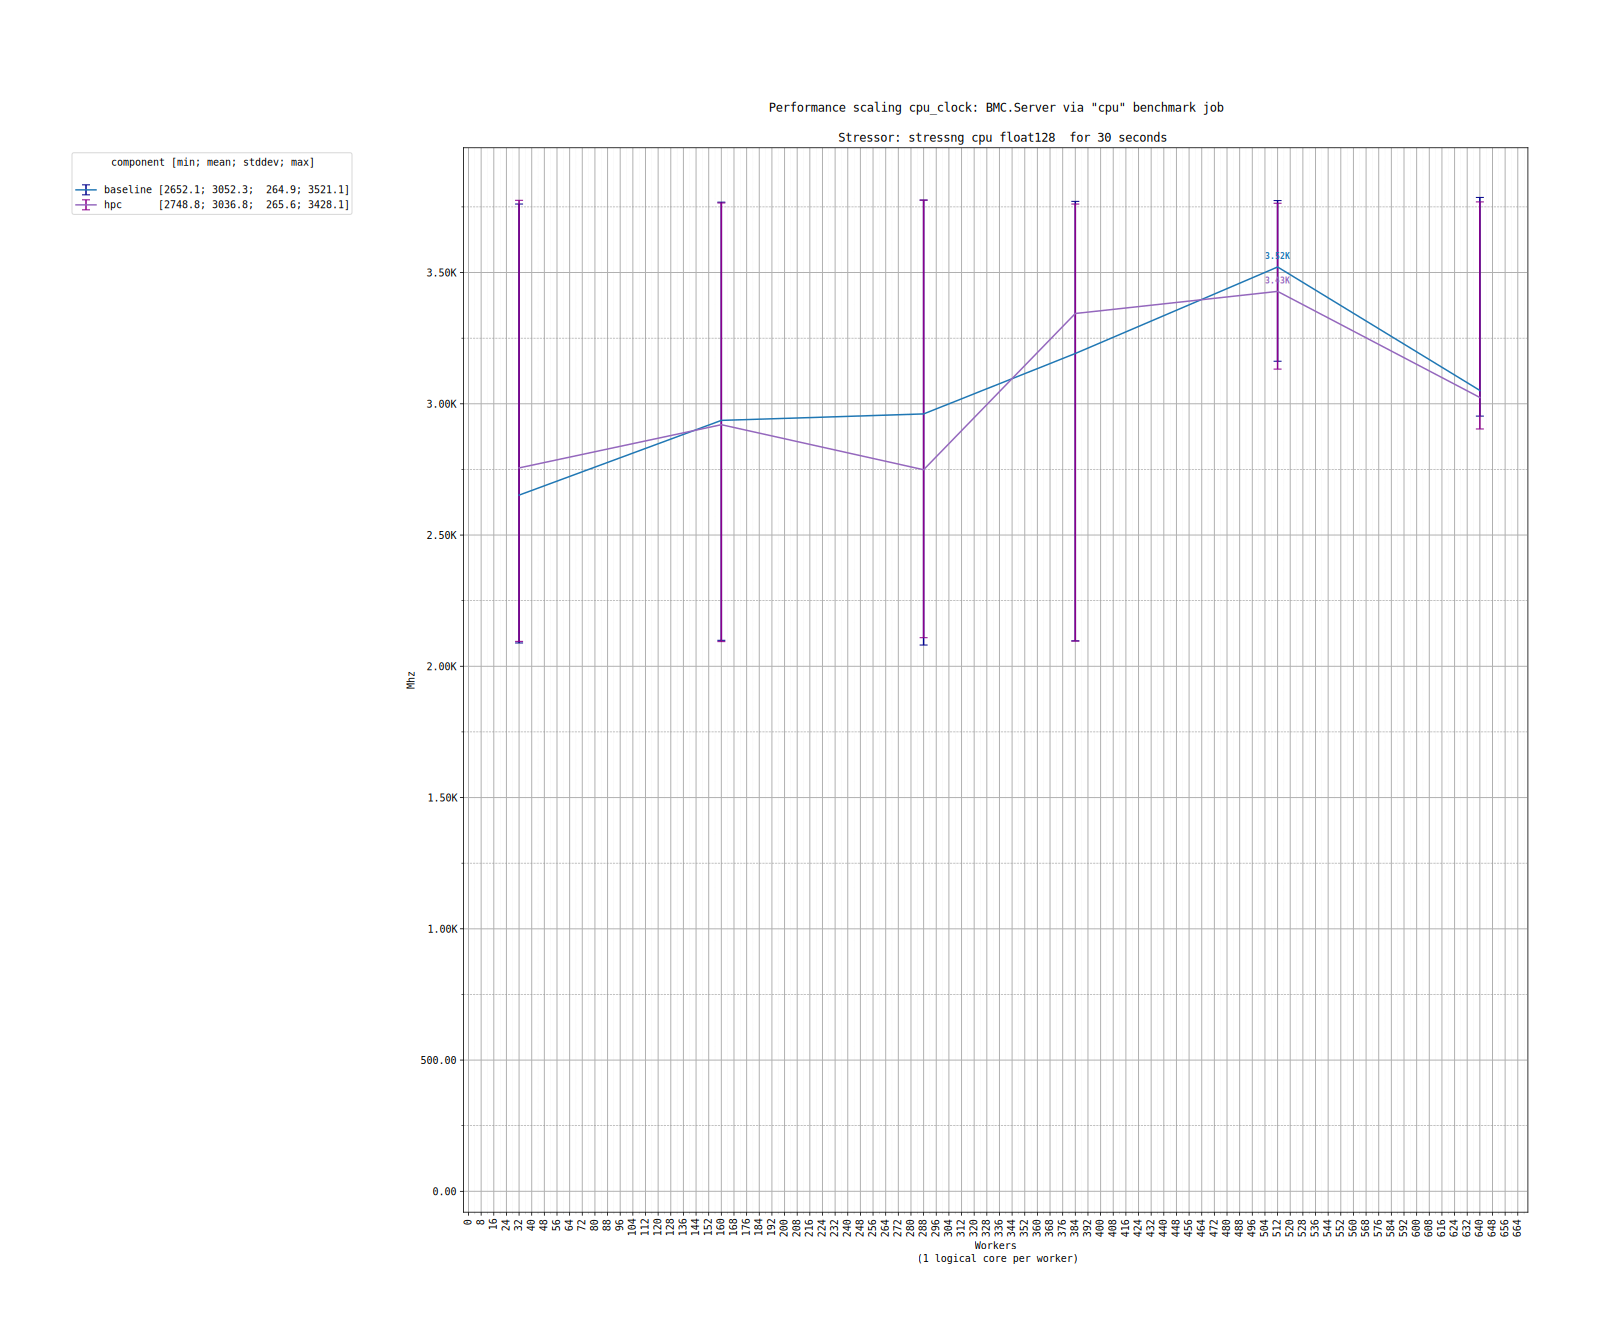
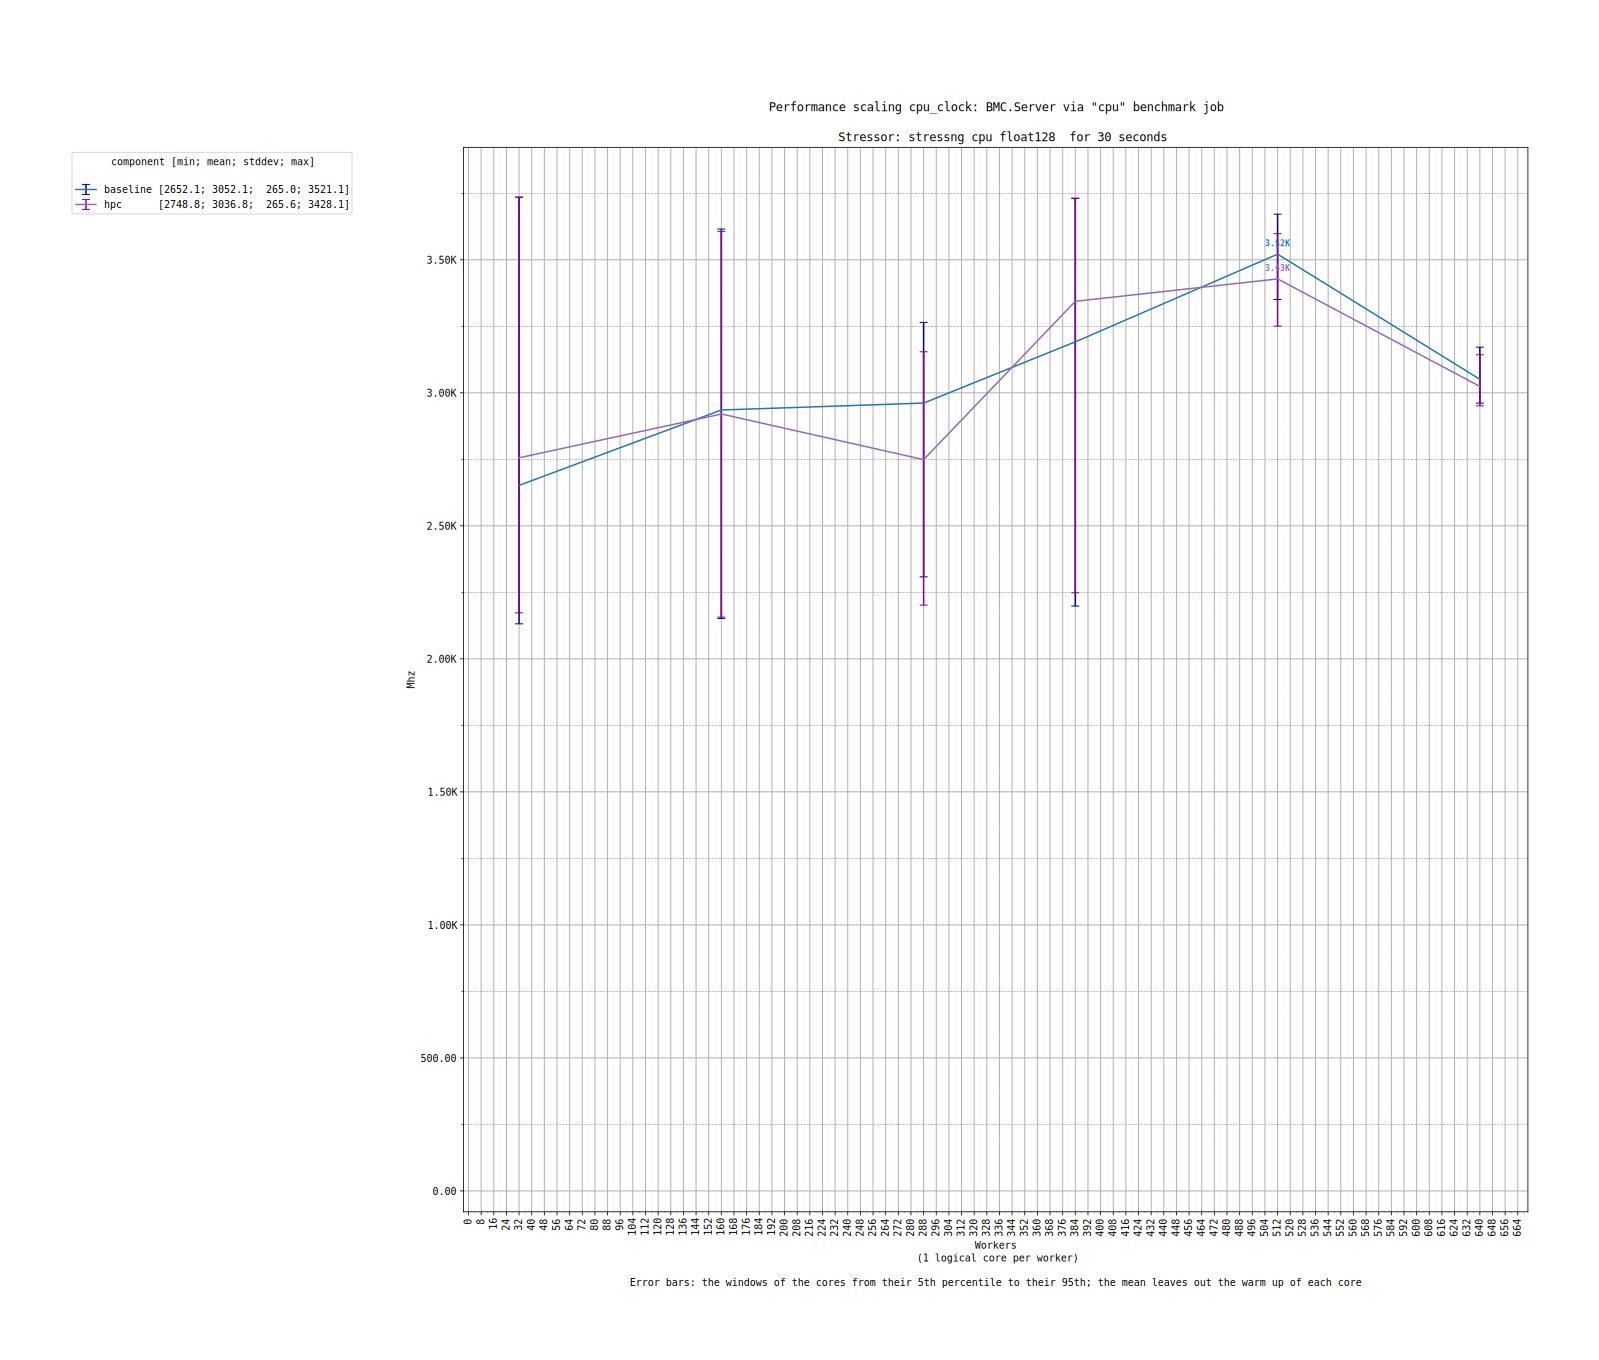
hwgraph: leave the warm up out of the cpu clock and IPC of a scaling step
The cpu_clock and cpu_ipc scaling graphs draw at each step the mean of
the windows of the cores, with a bar from the lowest reading of a core
to the highest one over the whole benchmark: a single low reading of a
core stretches it, like the bars of an AMD EPYC going down to 2.1 GHz
for a mean of 3.6 GHz, and the warm up lowers the mean.

The mean is now the one of the windows of the cores after their warm
up, and the bar goes from the 5th percentile of their windows to their
95th, as the curves over time and the rack view; when the mean is out of
them, the bar ends at the mean. A note under the graph tells it. The
cpu_clock of max_versus, from the same mean, leaves the warm up out too.

diff --git a/graph/trace.py b/graph/trace.py
@@ -13,8 +13,11 @@ from enum import StrEnum
 from statistics import mean
 from typing import Any, Callable
 
+import numpy as np
+
 from graph.common import bold, fatal
 from graph.trace_cache import cache_files, read_cache, write_cache
+from graph.windows import high_window, low_window, warm_up
 from hwbench.bench.engine import Resource
 from hwbench.bench.monitoring_structs import (
     CORE_FAMILY,
@@ -637,7 +640,9 @@ class Bench:
         named after. names restricts the computation to the components used
         during the benchmark (the pinned cores, the burnt GPUs); None averages
         every component of the family. Nothing is recorded when none reported
-        the metric.
+        the metric. The mean leaves out the warm up of each component, and the
+        error goes from the 5th percentile of their windows to their 95th, as
+        the curves over time and the rack view do.
         """
         if target is None:
             return
@@ -647,29 +652,35 @@ class Bench:
         except KeyError:
             return
 
-        min_values = []
-        mean_values = []
-        max_values = []
+        # The windows of each component, and the ones after its warm up, see warm_up()
+        windows = []
+        drawn = []
         for name, metric in components.get(str(family), {}).items():
             if names is not None and name not in names:
                 continue
-            # MIN of min ? Mean of mean ? Max of max ?
-            min_values.append(min(metric.get_min()))
-            mean_values.append(mean(metric.get_mean()))
-            max_values.append(max(metric.get_max()))
+            serie = np.asarray(metric.get_mean(), dtype=float)
+            if not len(serie):
+                continue
+            windows.append(serie)
+            drawn.append(serie[np.isfinite(serie) & ~warm_up(serie)])
 
-        if not mean_values:
+        if not windows or not len(np.concatenate(drawn)):
             return
 
-        mean_value = mean(mean_values)
+        # The mean of the windows after the warm up of each component
+        mean_value = float(np.mean(np.concatenate(drawn)))
         if index is None:
             target.append(mean_value)
         else:
             target[index] = mean_value
 
-        # If we want to keep the error distribution to plot error bars
+        # If we want to keep the error distribution to plot error bars: from the 5th percentile of the
+        # windows of the components to their 95th, a single low reading of a core does not stretch it.
+        # The mean is not a percentile: when out of them, the bar ends at the mean.
         if target_err is not None:
-            metric_err = (mean_value - min(min_values), max(max_values) - mean_value)
+            pooled = np.concatenate(windows)
+            low, high = low_window(pooled), high_window(pooled)
+            metric_err = (max(mean_value - low, 0.0), max(high - mean_value, 0.0))
             if index is None:
                 target_err.append(metric_err)
             else:

diff --git a/graph/scaling.py b/graph/scaling.py
@@ -16,6 +16,7 @@ from matplotlib.ticker import AutoMinorLocator, MultipleLocator
 from graph.common import cdu_header, context_header, location_header
 from graph.graph import (
     GRAPH_TYPES,
+    RANGE_BARS_NOTE,
     Graph,
     get_max_value_string_length,
     numa_aggregated_components,
@@ -1159,6 +1160,9 @@ def performance_scaling_graph(args, output_dir, job: str, traces_name: list) -> 
                 pinned_err_source = None
                 # The raw performance graph gets an ideal linear-scaling overlay.
                 is_perf_graph = False
+                # The error bars of the per-core metrics go from the 5th percentile of their windows to the 95th,
+                # told under the graph
+                bars_note = None
                 if "perf_watt" in graph_type:
                     graph_type_title = f"Performance scaling {graph_type}: '{bench.get_title_engine_name()} / {args.traces[0].get_metric_name()}'"
                     y_label = f"{unit} per Watt"
@@ -1178,6 +1182,7 @@ def performance_scaling_graph(args, output_dir, job: str, traces_name: list) -> 
                     err_source = aggregated_cpu_clock_err
                     pinned_y_source = aggregated_cpu_clock_pinned
                     pinned_err_source = aggregated_cpu_clock_pinned_err
+                    bars_note = RANGE_BARS_NOTE
                 elif "ipc" in graph_type:
                     graph_type_title = f"Performance scaling {graph_type}: {bench.get_title_engine_name()}"
                     outfile = f"scaling_cpu_ipc_{clean_perf}_{bench.get_title_engine_name().replace(' ', '_')}"
@@ -1186,6 +1191,7 @@ def performance_scaling_graph(args, output_dir, job: str, traces_name: list) -> 
                     err_source = aggregated_ipc_err
                     pinned_y_source = aggregated_ipc_pinned
                     pinned_err_source = aggregated_ipc_pinned_err
+                    bars_note = RANGE_BARS_NOTE
                 else:
                     graph_type_title = f"Performance scaling: {bench.get_title_engine_name()}"
                     outfile = f"scaling_{clean_perf}_{bench.get_title_engine_name().replace(' ', '_')}"
@@ -1230,6 +1236,9 @@ def performance_scaling_graph(args, output_dir, job: str, traces_name: list) -> 
                         ratio_note = scaling_unit.per_worker(logical_core_per_worker[0])
                         if ratio_note:
                             xlabel += f"\n{ratio_note}"
+                    if bars_note:
+                        # A blank line between the label of the axis and the note
+                        xlabel += f"\n\n{bars_note}"
 
                     graph = Graph(
                         args,

diff --git a/graph/test_trace.py b/graph/test_trace.py
@@ -6,6 +6,7 @@ import pickle
 from concurrent.futures import ProcessPoolExecutor
 from types import SimpleNamespace
 
+import numpy as np
 import pytest
 
 import graph.trace
@@ -425,3 +426,27 @@ def test_config_differences():
         "+ [qsort]",
     ]
     assert config_differences(reference, reference) == []
+
+
+def test_aggregate_cpu_clock_of_the_pinned_cores():
+    """The clock of a scaling step: the mean of the windows of the pinned cores after their warm up, its error
+    from their 5th percentile window to their 95th, a single low reading of a core not stretching it."""
+    from graph.windows import warm_up
+
+    trace = Trace("documentation/example/traces/numa.json", "numa", "BMC.Server")
+    bench = trace.bench(next(iter(trace.get_trace()["bench"])))
+    cores = bench.get_monitoring_metric(MonitoringContextKeys.Freq)["CPU"]
+    pinned = bench.pinned_core_names()
+    # A core reading a single low frequency once, its warm up long ago
+    core = cores[sorted(pinned & set(cores))[0]]
+    core.get_min()[5] = 100.0
+    core.get_mean()[0] = 1000.0
+    windows = [np.array(cores[name].get_mean(), dtype=float) for name in sorted(pinned & set(cores))]
+    pooled = np.concatenate(windows)
+    drawn = np.concatenate([serie[~warm_up(serie)] for serie in windows])
+    clock, clock_err = [], []
+    bench.add_perf(cpu_clock=clock, cpu_clock_err=clock_err, cpu_clock_cores=pinned)
+    assert clock == [pytest.approx(drawn.mean())]
+    low, high = np.percentile(pooled, 5), np.percentile(pooled, 95)
+    assert clock_err == [(pytest.approx(max(drawn.mean() - low, 0)), pytest.approx(max(high - drawn.mean(), 0)))]
+    assert clock[0] - clock_err[0][0] > 1000.0

diff --git a/graph/graph.py b/graph/graph.py
@@ -12,7 +12,7 @@ from matplotlib.ticker import AutoMinorLocator, FuncFormatter, MaxNLocator, Mult
 
 from graph.common import context_header, fatal
 from graph.trace import Bench, gpu_description
-from graph.windows import high_window, in_range, low_window, warm_up, without_warm_up
+from graph.windows import RANGE_PERCENTILES, high_window, in_range, low_window, warm_up, without_warm_up
 from hwbench.bench.engine import Resource
 from hwbench.bench.monitoring_structs import CORE_FAMILY, MonitoringContextKeys, MonitorMetric
 from hwbench.utils.helpers import cpu_list_to_range
@@ -88,6 +88,12 @@ MAX_LEGEND_ITEMS = 36
 # time by window_statistics_in_label()
 STATISTICS_LEGEND = "component [min; mean; stddev; max]\n"
 WINDOW_STATISTICS_LEGEND = "component [p5; mean; stddev; p95]\n"
+# The note under the graphs whose error bars go from the 5th percentile of the windows of the cores to
+# their 95th, see Bench.add_perf()
+RANGE_BARS_NOTE = (
+    f"Error bars: the windows of the cores from their {RANGE_PERCENTILES[0]}th percentile to their "
+    f"{RANGE_PERCENTILES[1]}th; the mean leaves out the warm up of each core"
+)
 
 
 class Graph:

diff --git a/documentation/hwgraph-scaling.md b/documentation/hwgraph-scaling.md
@@ -37,8 +37,8 @@ with `--no-scaling`, or for a job with a single benchmark (`No scaling detected 
 | `perf` | the performance of the engine | dotted lines show the linear performance projection of each trace, when there are more than 3 steps |
 | `perf_watt` | the performance per Watt of the `power_metric` | |
 | `watts` | the power of the `power_metric`, with min and max | |
-| `cpu_clock` | the mean frequency of the cores, with min and max | `all_cores` and `pinned_cores` |
-| `cpu_ipc` | the mean IPC of the cores, with min and max | `all_cores` and `pinned_cores`; only when the trace collected the IPC |
+| `cpu_clock` | the mean frequency of the cores, without the [warm up](hwgraph-environment.md#curves-over-time) of each, from the 5th percentile of their windows to their 95th | `all_cores` and `pinned_cores` |
+| `cpu_ipc` | the mean IPC of the cores, as `cpu_clock` | `all_cores` and `pinned_cores`; only when the trace collected the IPC |
 
 The graphs of this page are rendered from the [reference dataset](example/README.md): the `cpu` job (`float128`) of two configurations of the same server, `baseline` and `hpc`, scaled from 32 to 640 workers.
 

diff --git a/documentation/hwgraph-versus.md b/documentation/hwgraph-versus.md
@@ -25,7 +25,7 @@ inserted when the module has several:
 | `perf` | `max_perf_total_…`, `max_perf_per_core_…` | the best performance, in total and per physical core of the machine; bigger is better |
 | `perf_watt` | `max_perf_total_…`, `max_perf_per_core_…` | the performance per Watt of that run; bigger is better |
 | `watts` | `max_perf_total_…`, `max_perf_per_core_…` | the power of that run; lower is better |
-| `cpu_clock` | `max_perf_total_…` | the frequency of the pinned cores during that run |
+| `cpu_clock` | `max_perf_total_…` | the frequency of the pinned cores during that run, without the [warm up](hwgraph-environment.md#curves-over-time) of each |
 
 A benchmark that was skipped is labelled `benchmark skipped`.
 
